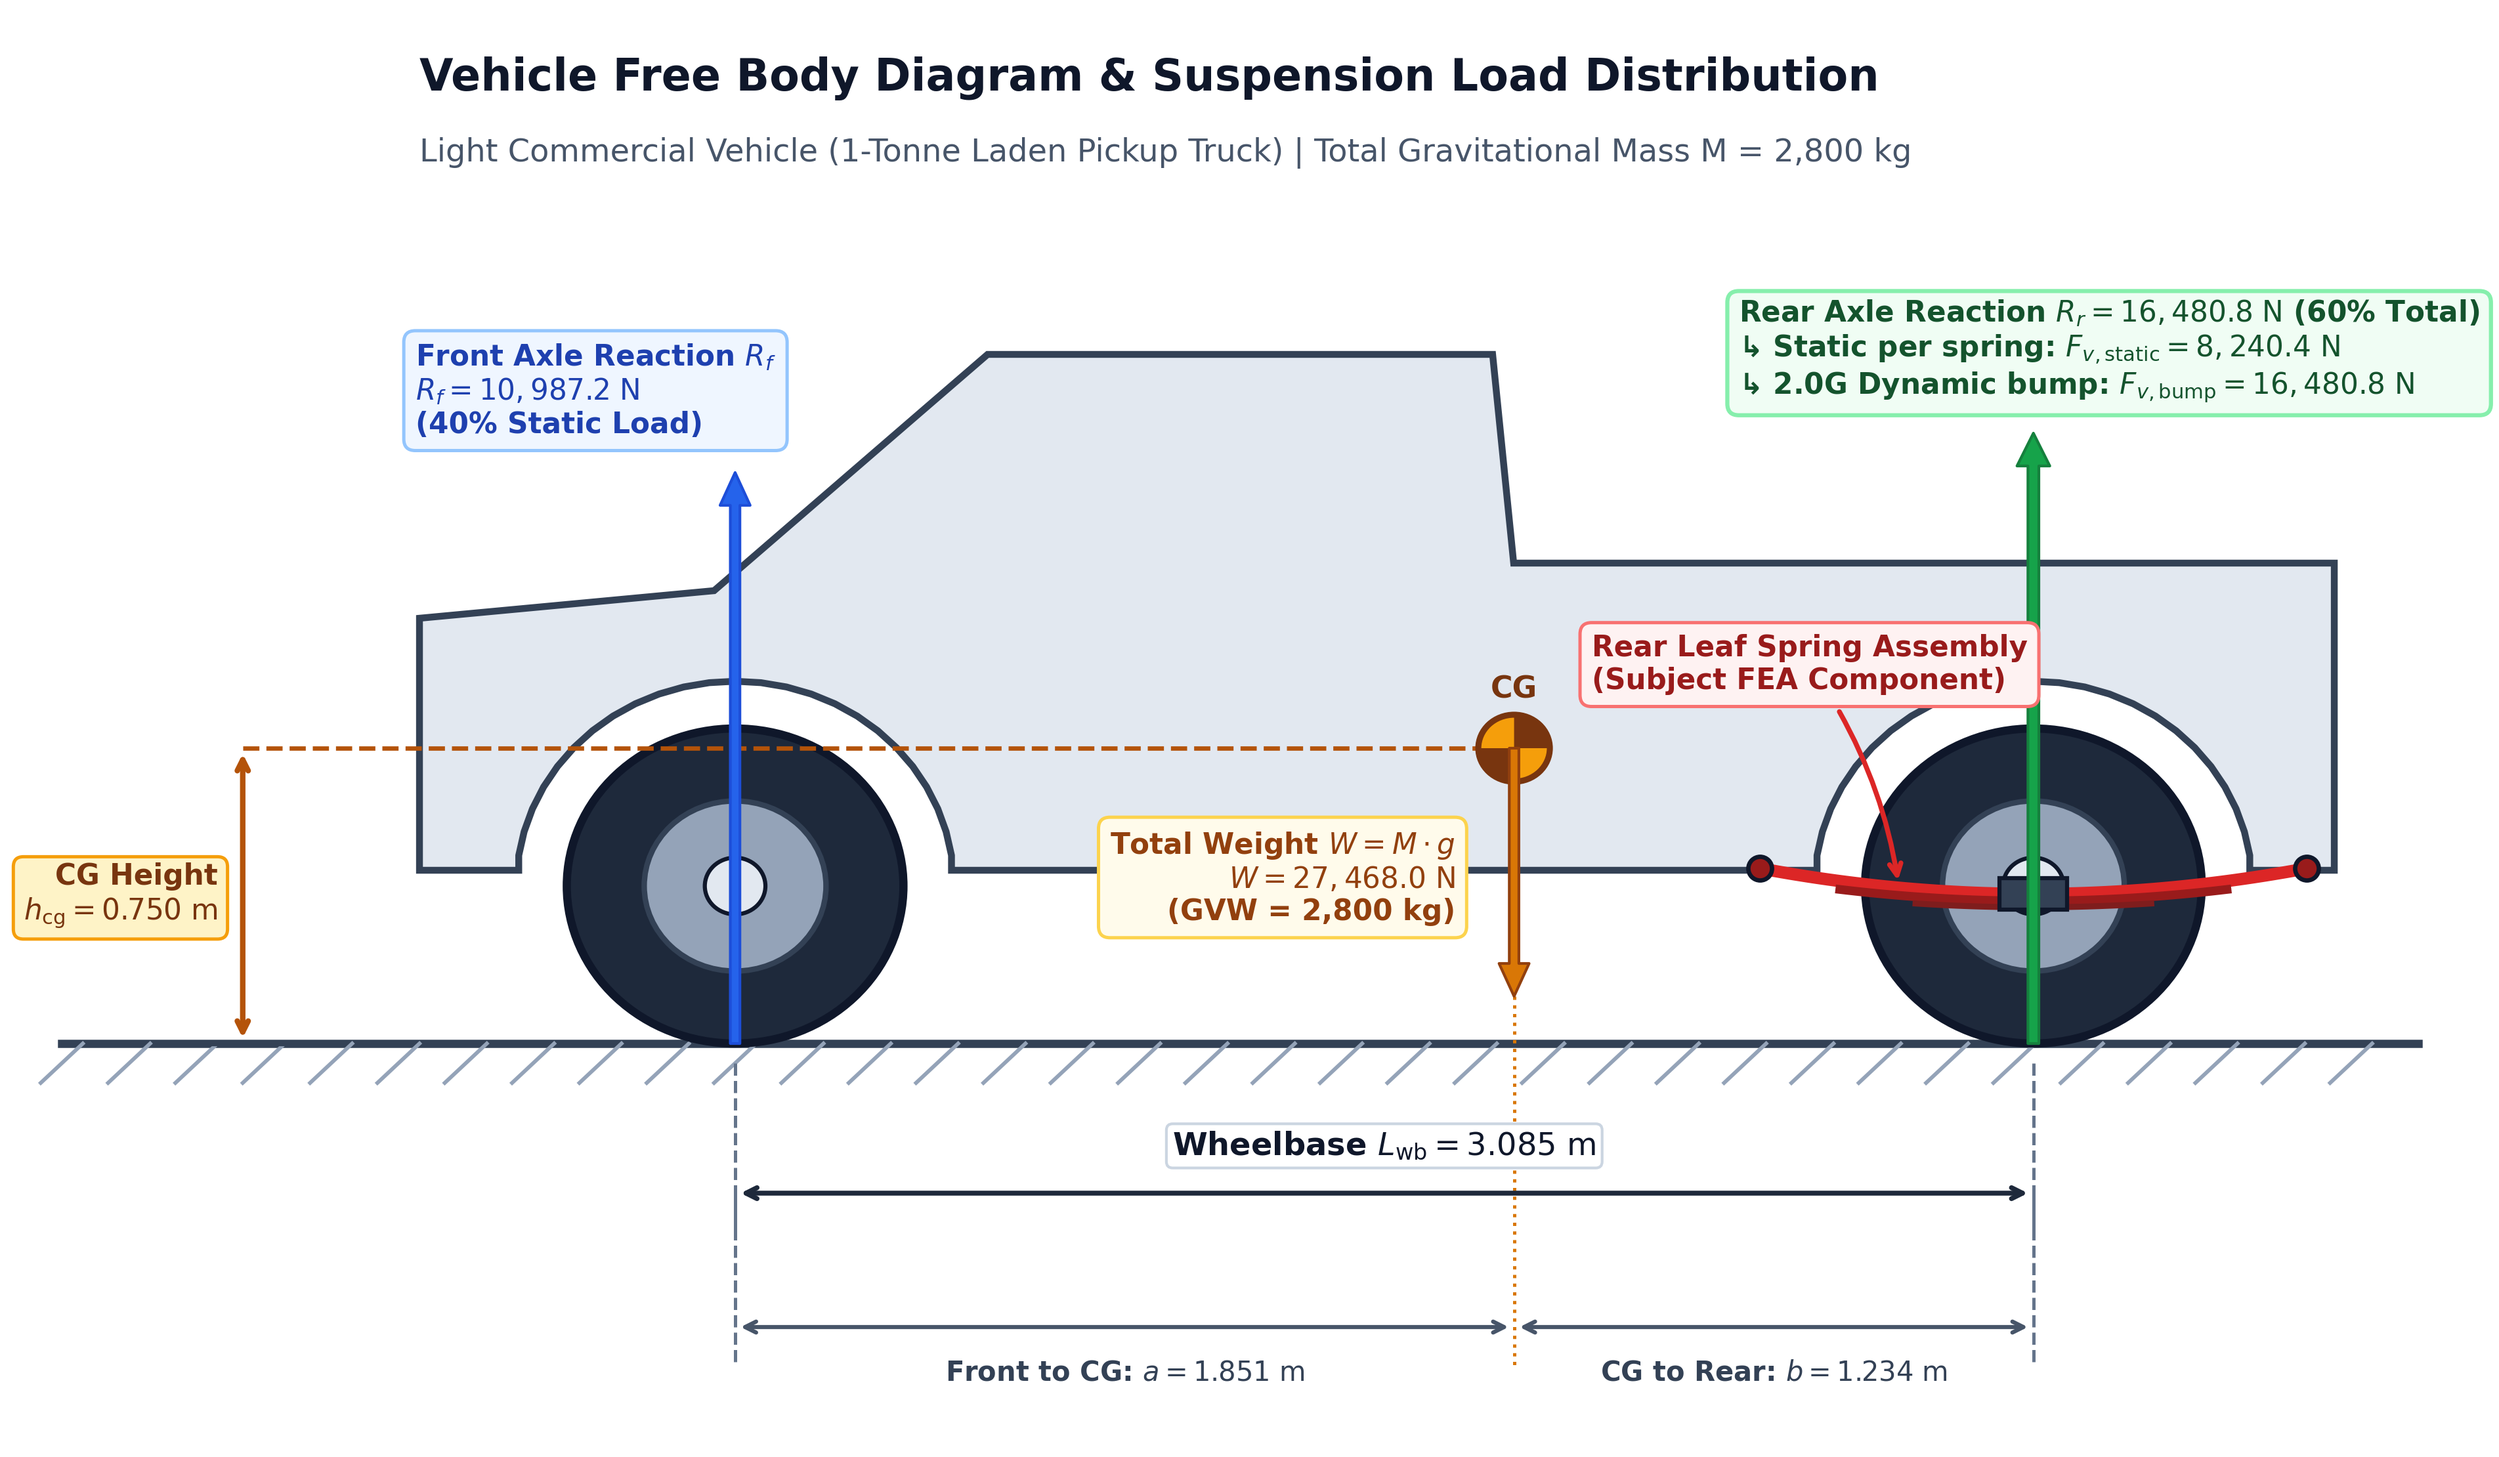
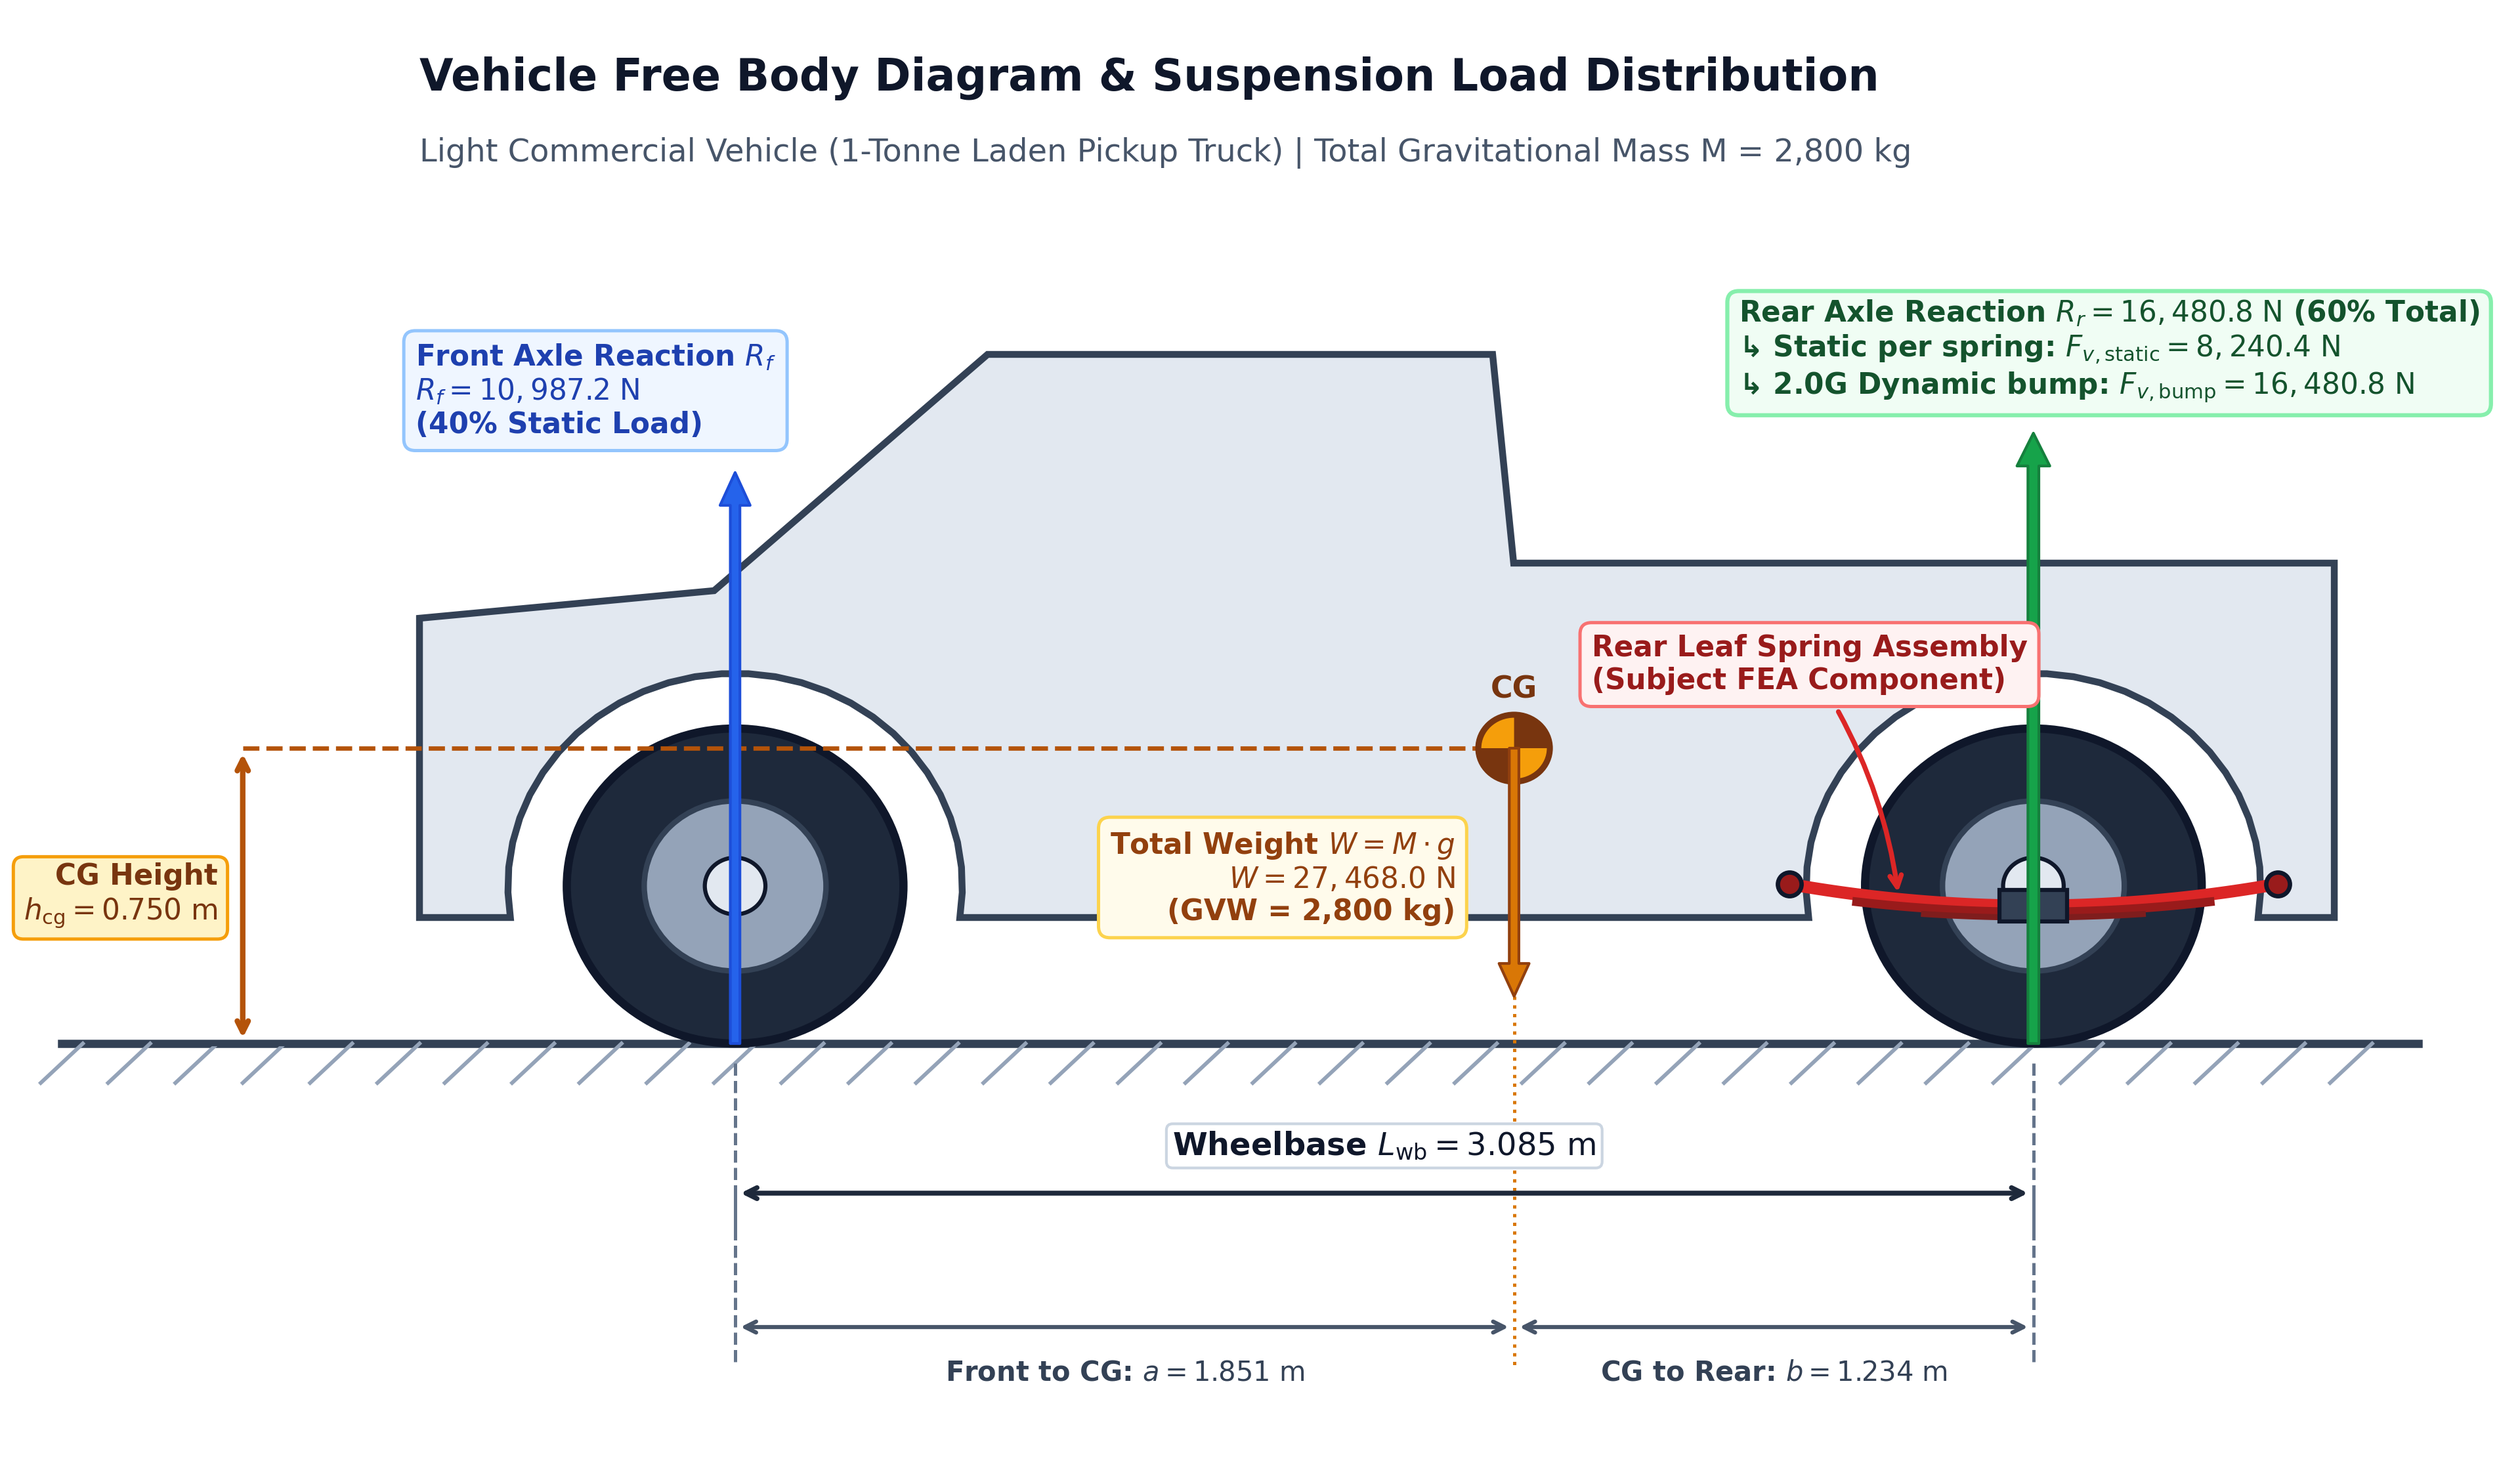
Update Figure 1: extend vehicle body lower edge downwards to y=0.32m

diff --git a/scripts/plot_vehicle_dynamics.py b/scripts/plot_vehicle_dynamics.py
@@ -26,7 +26,7 @@ def generate_vehicle_fbd():
     x_front = 0.85
     x_rear = 3.935          # Wheelbase L_wb = 3.085 m
     r_wheel = 0.40          # Wheel rolling radius (m)
-    y_belly = 0.44          # Flat vehicle underbody / rocker sill line (m)
+    y_belly = 0.32          # Vehicle body lower edge / rocker sill line (m)
     x_cg = x_front + 1.851  # CG longitudinal position: 2.701 m (a = 1.851 m, b = 1.234 m)
     y_cg = 0.750            # CG height above ground h_cg = 0.750 m
 
@@ -51,18 +51,23 @@ def generate_vehicle_fbd():
 
     # -------------------------------------------------------------------------
     # 2. Vehicle Body Outline (Pickup Truck Silhouette)
+    # Body extends down to y_belly = 0.32 m (กรอบของรถยื่นลงมา)
     # Underbody is completely flat/level (ท้องรถเสมอราบไป)
     # No window rectangle (ไม่มีสี่เหลี่ยมกระจก)
     # Wheel arches provide realistic clearance over tires
     # -------------------------------------------------------------------------
-    r_arch = 0.52
-    theta_front = np.linspace(np.pi - 0.15, 0.15, 25)
-    f_arch_x = (x_front + r_arch * np.cos(theta_front)).tolist()
-    f_arch_y = (r_wheel + r_arch * np.sin(theta_front)).tolist()
+    r_arch = 0.54
+    sin_theta_0 = (y_belly - r_wheel) / r_arch
+    theta_0 = np.arcsin(sin_theta_0)
+    theta_start = np.pi - theta_0
+    theta_end = theta_0
 
-    theta_rear = np.linspace(np.pi - 0.15, 0.15, 25)
-    r_arch_x = (x_rear + r_arch * np.cos(theta_rear)).tolist()
-    r_arch_y = (r_wheel + r_arch * np.sin(theta_rear)).tolist()
+    theta_arch = np.linspace(theta_start, theta_end, 30)
+    f_arch_x = (x_front + r_arch * np.cos(theta_arch)).tolist()
+    f_arch_y = (r_wheel + r_arch * np.sin(theta_arch)).tolist()
+
+    r_arch_x = (x_rear + r_arch * np.cos(theta_arch)).tolist()
+    r_arch_y = (r_wheel + r_arch * np.sin(theta_arch)).tolist()
 
     body_pts = []
     # Front bumper & lower grille
@@ -100,29 +105,29 @@ def generate_vehicle_fbd():
 
     # -------------------------------------------------------------------------
     # 3. Leaf Spring Assembly (Suspension at Rear Axle, Mounted to Chassis Frame)
-    # Longer span, arching upwards to mount directly to the chassis frame (โครงรถ)
+    # Sits at rear axle and arches upwards to mount brackets
     # -------------------------------------------------------------------------
-    ls_span = 0.65
-    y_center = 0.38          # Axle center height
-    ls_camber = 0.065        # Upward curvature to meet vehicle underbody sill
+    ls_span = 0.58
+    y_center = 0.35          # Axle center height
+    ls_camber = 0.055        # Upward curvature towards chassis frame
     ls_x = np.linspace(x_rear - ls_span, x_rear + ls_span, 80)
-    # Master leaf curves upwards from axle to vehicle underbody
+    # Master leaf curves upwards from axle to vehicle mounting points
     ls_y_master = y_center + ls_camber * ((ls_x - x_rear) / ls_span)**2
     ax.plot(ls_x, ls_y_master, color='#dc2626', lw=4.5, zorder=6, label='Leaf Spring Assembly')
 
     # Secondary graduated leaf
-    ls_span_sub = 0.46
+    ls_span_sub = 0.42
     ls_x_sub = np.linspace(x_rear - ls_span_sub, x_rear + ls_span_sub, 50)
-    ls_y_sub = (y_center - 0.018) + (ls_camber * 0.90) * ((ls_x_sub - x_rear) / ls_span)**2
+    ls_y_sub = (y_center - 0.016) + (ls_camber * 0.90) * ((ls_x_sub - x_rear) / ls_span)**2
     ax.plot(ls_x_sub, ls_y_sub, color='#991b1b', lw=3.2, zorder=6)
 
     # Third graduated leaf
-    ls_span_sub3 = 0.28
+    ls_span_sub3 = 0.26
     ls_x_sub3 = np.linspace(x_rear - ls_span_sub3, x_rear + ls_span_sub3, 30)
-    ls_y_sub3 = (y_center - 0.034) + (ls_camber * 0.80) * ((ls_x_sub3 - x_rear) / ls_span)**2
+    ls_y_sub3 = (y_center - 0.030) + (ls_camber * 0.80) * ((ls_x_sub3 - x_rear) / ls_span)**2
     ax.plot(ls_x_sub3, ls_y_sub3, color='#7f1d1d', lw=2.2, zorder=6)
 
-    # Spring Eyes (Front Fixed Eye & Rear Shackle Eye) mounting to vehicle underbody
+    # Spring Eyes (Front Fixed Eye & Rear Shackle Eye)
     y_front_eye = ls_y_master[0]
     y_rear_eye = ls_y_master[-1]
     ax.scatter([x_rear - ls_span], [y_front_eye], color='#991b1b', edgecolor='#0f172a', s=75, lw=1.6, zorder=7)
